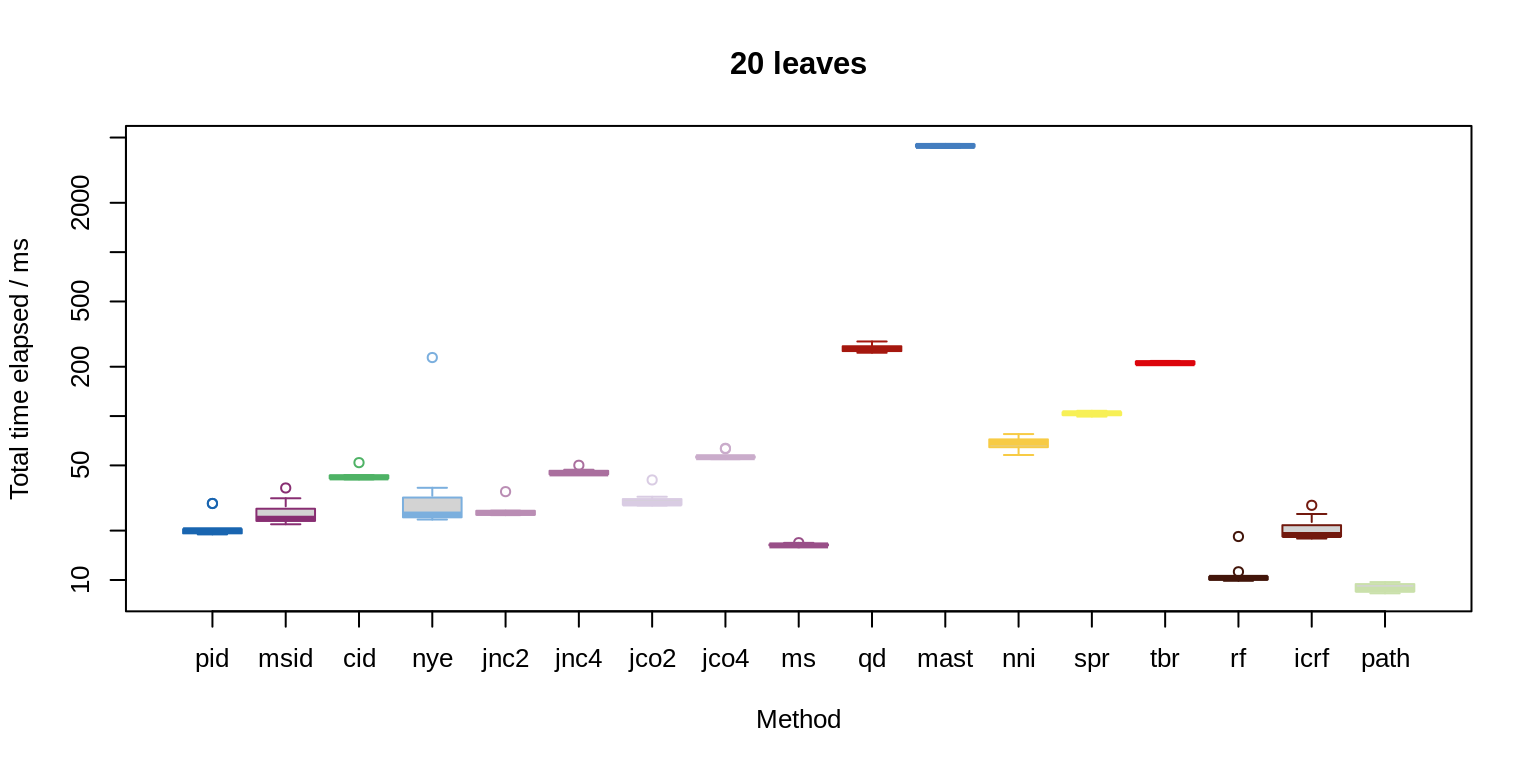
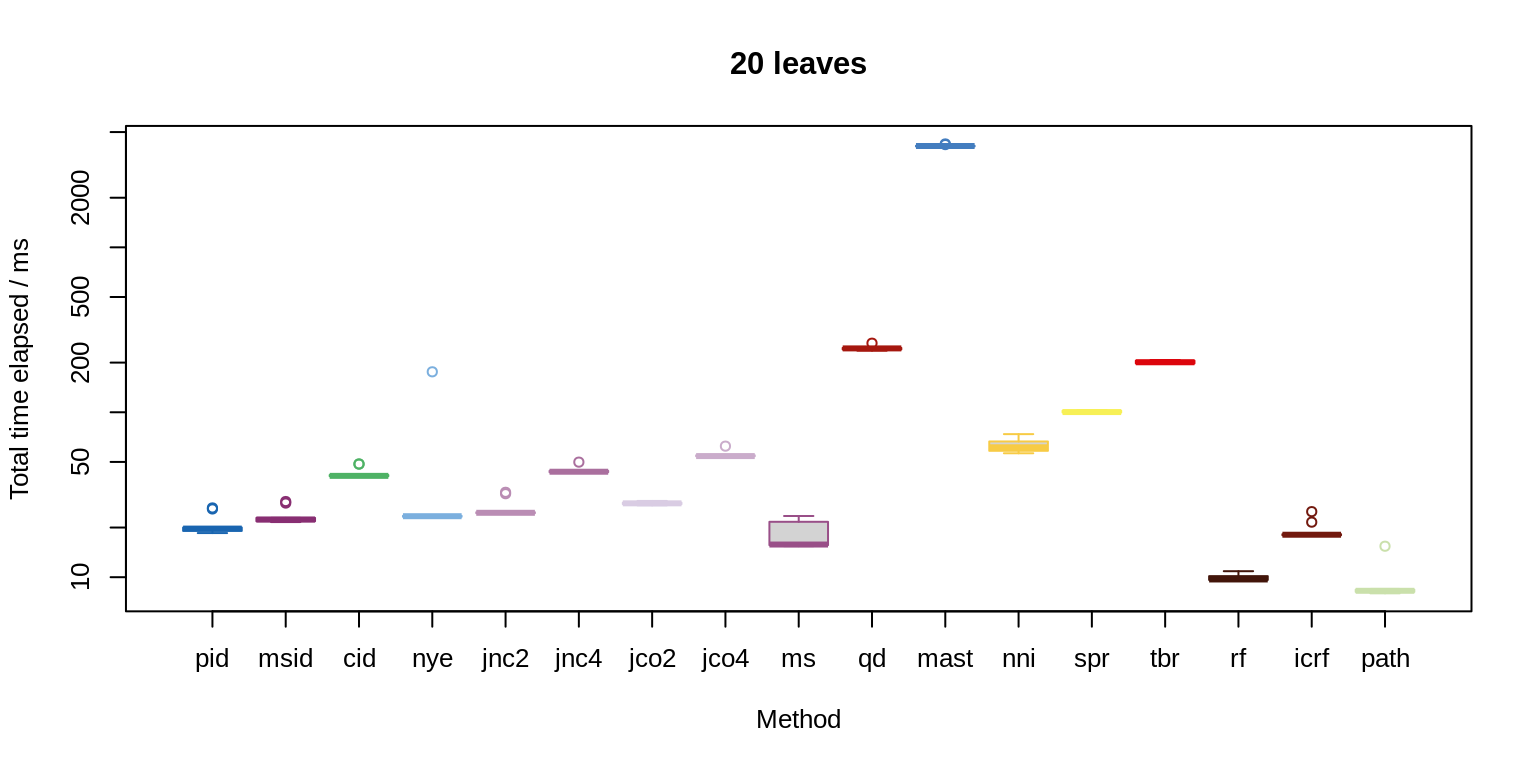
Built site for TreeDistData: 0.1.0.9000@b0fb8e8

diff --git a/dev/articles/10-timing.html b/dev/articles/10-timing.html
@@ -149,87 +149,88 @@ The values reported in Smith <span class="citation">(2020)</span> were calculate
 <tr class="odd">
 <td align="left">Path</td>
 <td align="right">9</td>
-<td align="right">17</td>
+<td align="right">16</td>
 </tr>
 <tr class="even">
 <td align="left">Robinson-Foulds</td>
-<td align="right">11</td>
-<td align="right">16</td>
+<td align="right">10</td>
+<td align="right">14</td>
 </tr>
 <tr class="odd">
 <td align="left">Match. Split Dist.</td>
-<td align="right">17</td>
-<td align="right">46</td>
+<td align="right">18</td>
+<td align="right">45</td>
 </tr>
 <tr class="even">
 <td align="left">Info. Corr. RF</td>
-<td align="right">21</td>
-<td align="right">38</td>
+<td align="right">19</td>
+<td align="right">36</td>
 </tr>
 <tr class="odd">
 <td align="left">Phylog. Info. Dist</td>
-<td align="right">22</td>
-<td align="right">83</td>
+<td align="right">21</td>
+<td align="right">80</td>
 </tr>
 <tr class="even">
 <td align="left">Match. Split Info Dist</td>
-<td align="right">26</td>
+<td align="right">24</td>
 <td align="right">140</td>
 </tr>
 <tr class="odd">
 <td align="left">JRF (k = 2, no conflict)</td>
-<td align="right">27</td>
+<td align="right">26</td>
 <td align="right">110</td>
 </tr>
 <tr class="even">
 <td align="left">JRF (k = 2, conflict ok)</td>
-<td align="right">31</td>
+<td align="right">28</td>
 <td align="right">170</td>
 </tr>
 <tr class="odd">
-<td align="left">Clust. Info. Dist.</td>
-<td align="right">44</td>
-<td align="right">260</td>
-</tr>
-<tr class="even">
-<td align="left">JRF (k = 4, no conflict)</td>
-<td align="right">46</td>
-<td align="right">540</td>
-</tr>
-<tr class="odd">
-<td align="left">paste(plain(“Nye”), italic(“et al.”))</td>
-<td align="right">47</td>
+<td align="left">Nye <em>et al.</em>
+</td>
+<td align="right">39</td>
 <td align="right">130</td>
 </tr>
 <tr class="even">
+<td align="left">Clust. Info. Dist.</td>
+<td align="right">43</td>
+<td align="right">270</td>
+</tr>
+<tr class="odd">
+<td align="left">JRF (k = 4, no conflict)</td>
+<td align="right">45</td>
+<td align="right">530</td>
+</tr>
+<tr class="even">
 <td align="left">JRF (k = 4, conflict ok)</td>
-<td align="right">58</td>
-<td align="right">870</td>
+<td align="right">56</td>
+<td align="right">840</td>
 </tr>
 <tr class="odd">
 <td align="left">NNI (approx.)</td>
-<td align="right">69</td>
-<td align="right">85</td>
+<td align="right">63</td>
+<td align="right">79</td>
 </tr>
 <tr class="even">
 <td align="left">SPR (approx.)</td>
 <td align="right">100</td>
-<td align="right">1100</td>
+<td align="right">1000</td>
 </tr>
 <tr class="odd">
 <td align="left">TBR (approx.)</td>
-<td align="right">210</td>
-<td align="right">390</td>
+<td align="right">200</td>
+<td align="right">370</td>
 </tr>
 <tr class="even">
 <td align="left">Quartet</td>
-<td align="right">260</td>
-<td align="right">470</td>
+<td align="right">250</td>
+<td align="right">440</td>
 </tr>
 <tr class="odd">
 <td align="left">MAST size</td>
-<td align="right">4500</td>
-<td align="right">22000</td>
+<td align="right">4200</td>
+<td align="right">20000</td>
 </tr>
 </tbody>
 </table>

diff --git a/dev/articles/X-heterogeneity.html b/dev/articles/X-heterogeneity.html
@@ -138,8 +138,12 @@
 <h2 class="hasAnchor">
 <a href="#multi-dimensional-scaling" class="anchor"></a>Multi-dimensional scaling</h2>
 <p><img src="X-heterogeneity_files/figure-html/do-plot-1.png" width="960"></p>
-<p><img src="X-heterogeneity_files/figure-html/k-estimates-2d-1.png" width="700"> ## O-ring analysis</p>
-<p>20 tips, metric and non-metric</p>
+<p><img src="X-heterogeneity_files/figure-html/k-estimates-2d-1.png" width="700"></p>
+</div>
+<div id="o-ring-analysis" class="section level2">
+<h2 class="hasAnchor">
+<a href="#o-ring-analysis" class="anchor"></a>O-ring analysis</h2>
+<p>20 tips, metric and non-metric:</p>
 <p><img src="X-heterogeneity_files/figure-html/o-ring-2d-1.png" width="700"></p>
 </div>
 <div id="scaling-analysis-fifty-leaf-trees" class="section level2">
